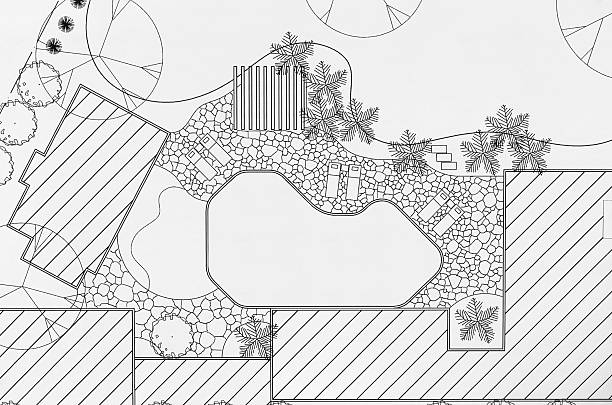
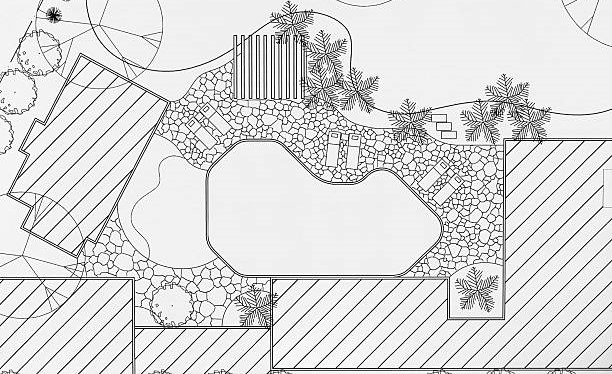
changes

Changed region(s): [[0.0, 0.0, 1.0, 1.0], [0.9003, 0.0, 1.0, 0.1765], [0.9935, 0.1765, 1.0, 0.2059]]

diff --git a/portfolio.html b/portfolio.html
@@ -167,7 +167,7 @@
       </p>
     </div>
     <div class="project-image">
-      <img src="assets/images/environment.jpg" alt="Environmental Services" loading="lazy">
+      <img src="assets/images/environment.png" alt="Environmental Services" loading="lazy">
     </div>
   </div>
 
@@ -177,11 +177,6 @@
   <p>© 2025 Rioba Mwita | All rights reserved</p>
 </footer>
 
-<!-- Vercel Speed Insights -->
-<script>
-  window.si = window.si || function () { (window.siq = window.siq || []).push(arguments); };
-</script>
-<script defer src="/_vercel/speed-insights/script.js"></script>
     <!-- LAND SURVEY MODAL -->
 <div id="landSurveyModal" class="modal-overlay">
   <div class="modal-content">